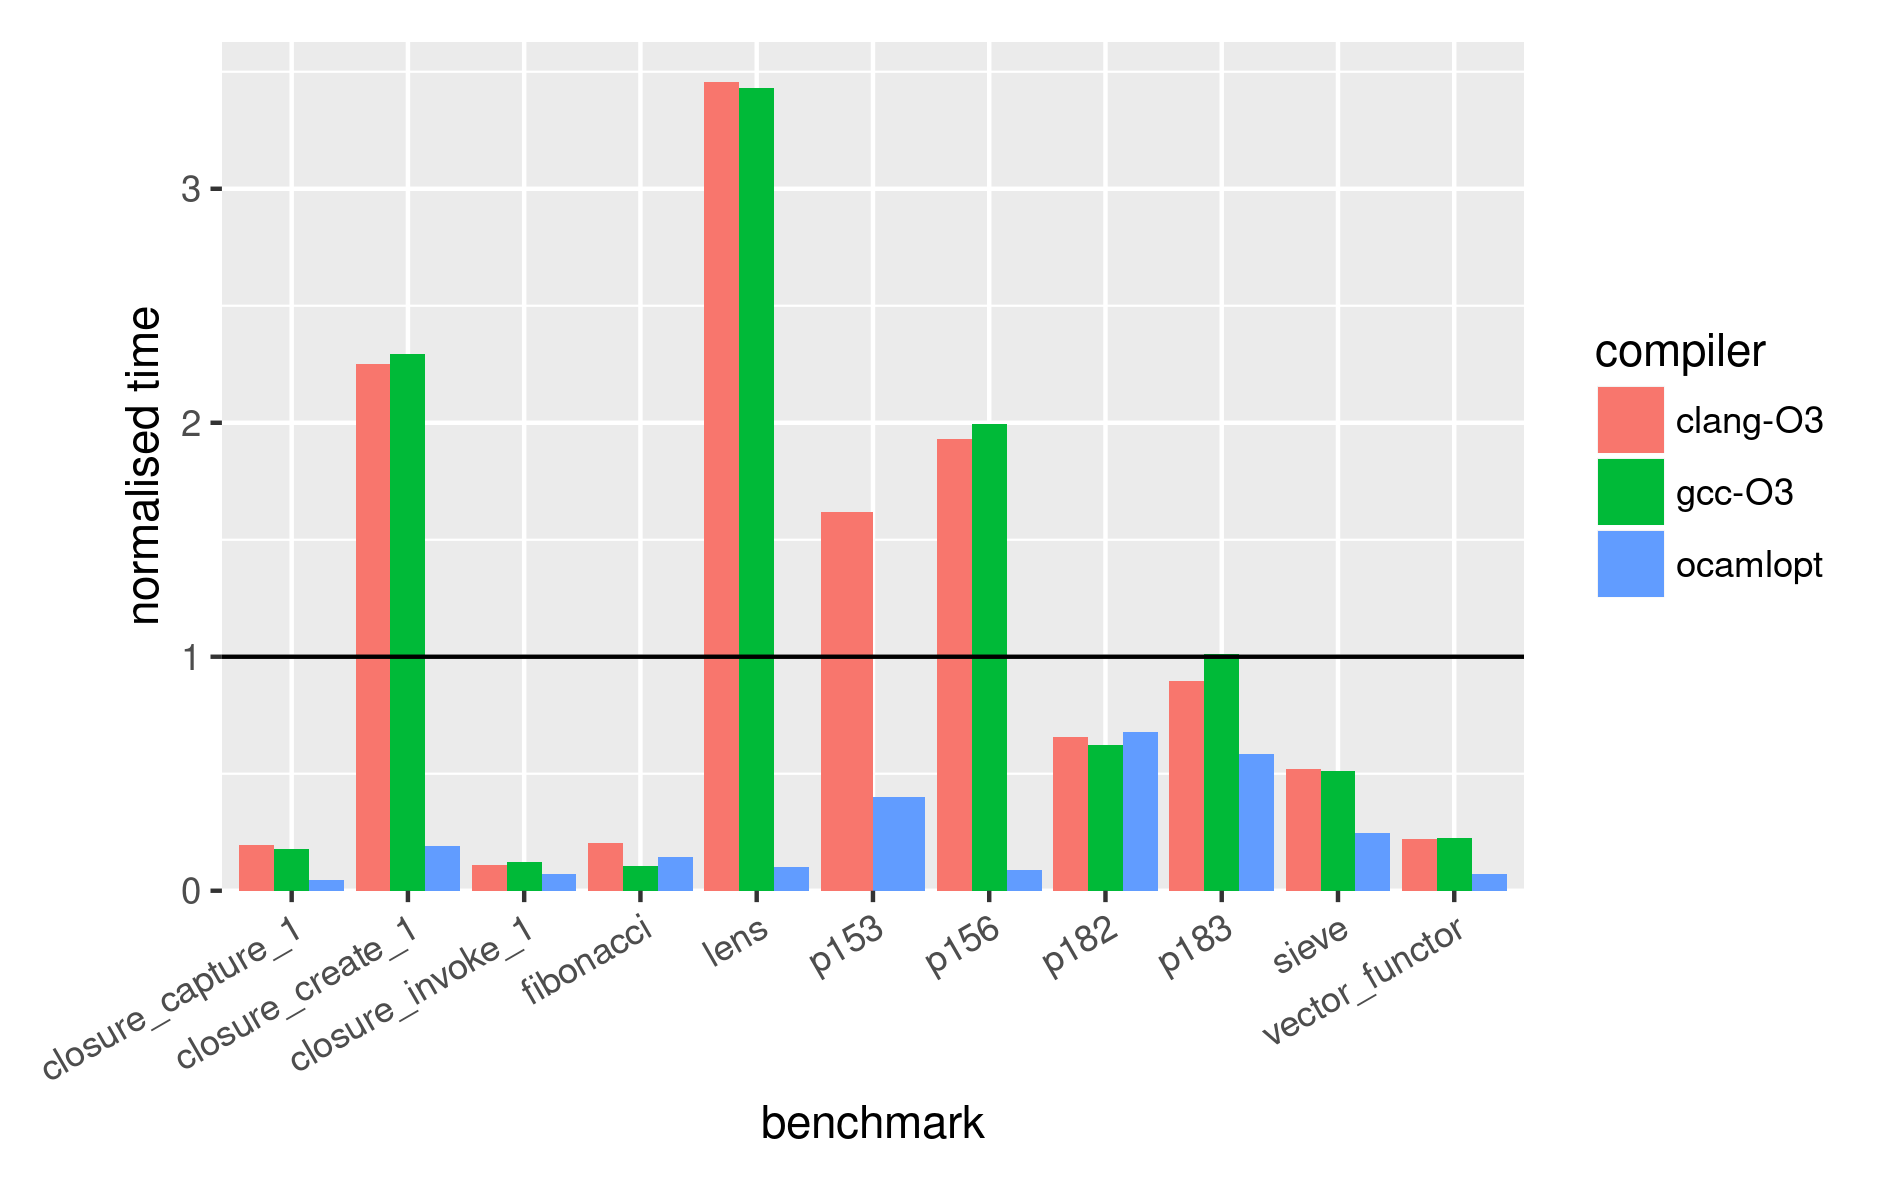
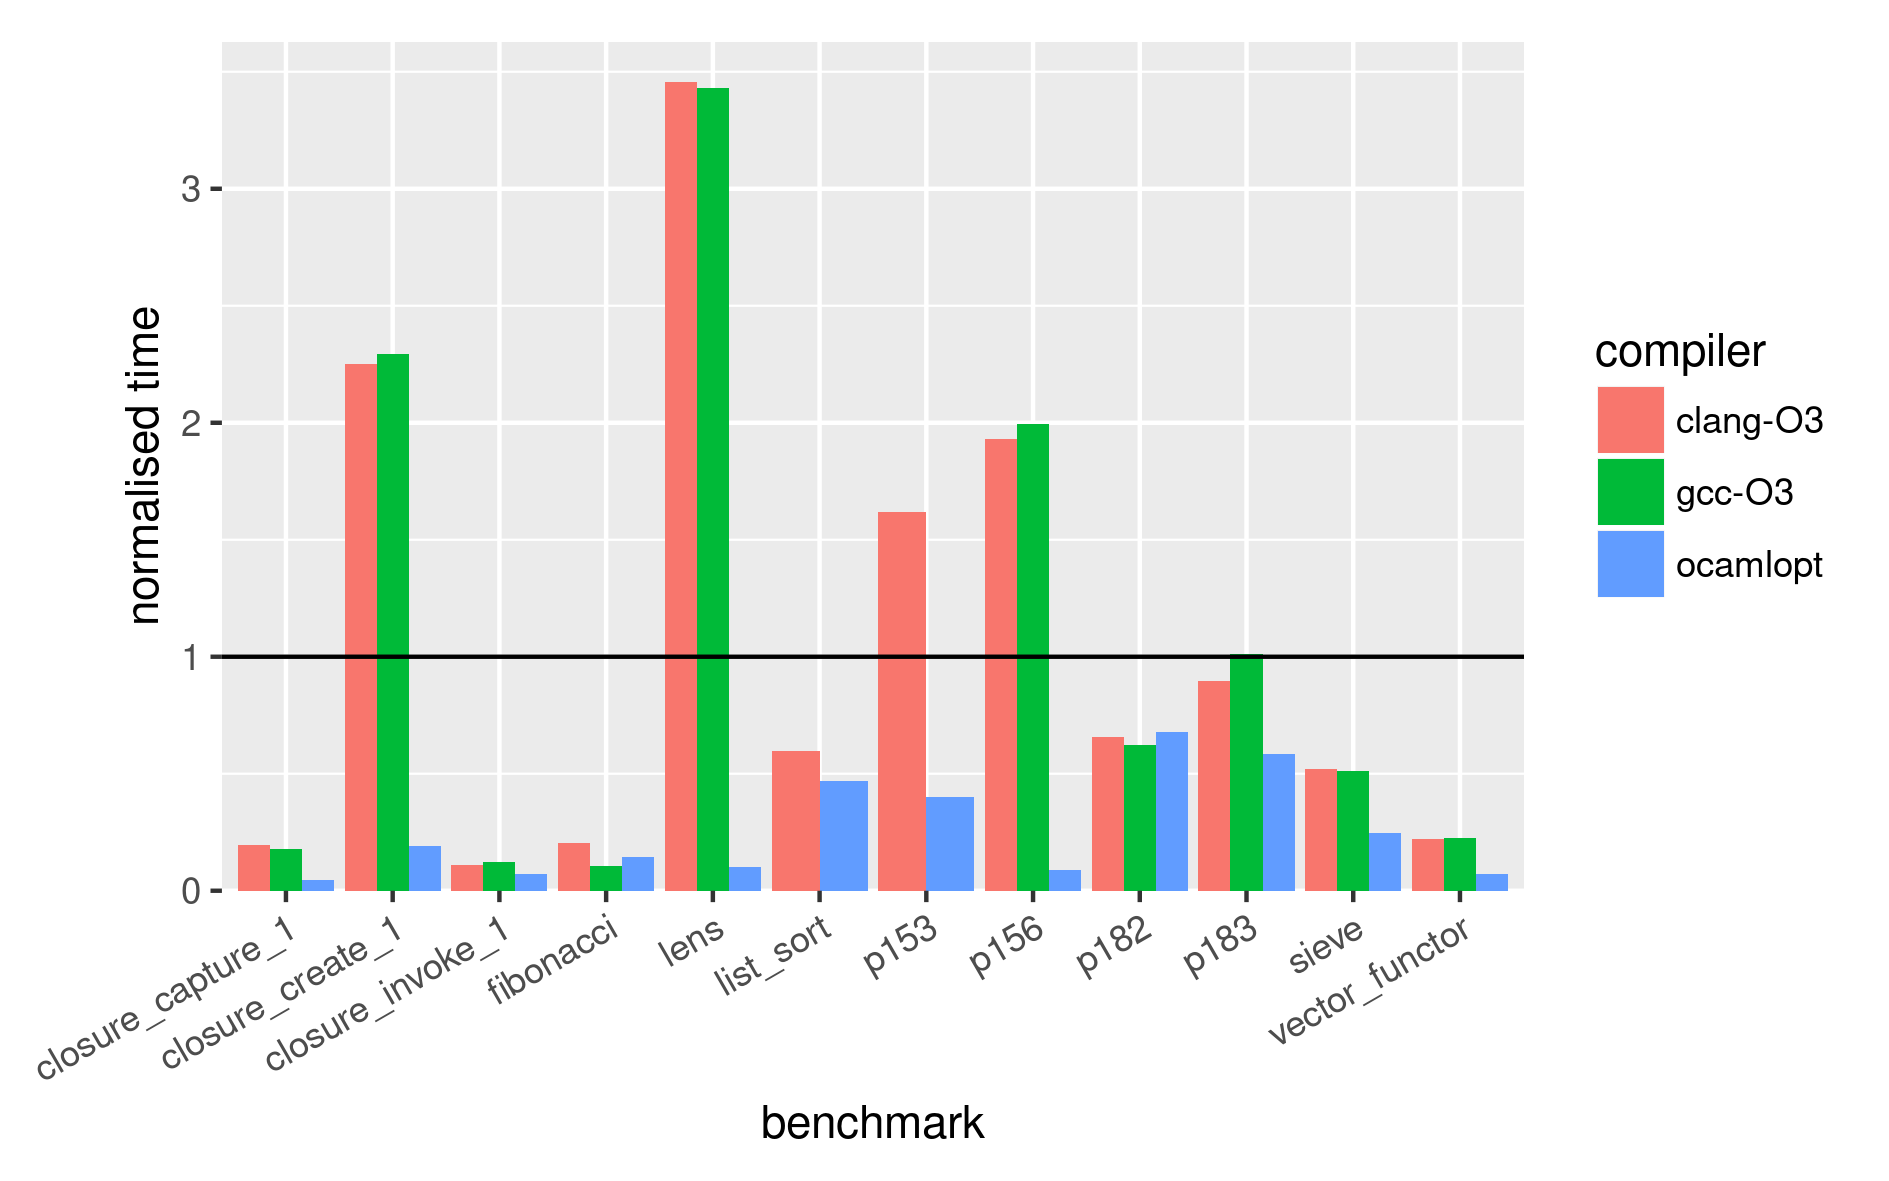
diss

Changed region(s): [[0.0, 0.061, 0.7808, 0.9145]]

diff --git a/dissertation/diss.tex b/dissertation/diss.tex
@@ -198,7 +198,12 @@ TODO
 \section{Summary of work done}
 
 \begin{enumerate}
-  \item I've modified the OCaml compiler driver (\lstinline!driver/compile.ml!) to teach it about compiling to C. See section \ref{modified-compiler-driver};
+  \item I've modified the OCaml compiler driver (\lstinline!driver/compile.ml!) to teach it about compiling to C.
+
+    A new flag \lstinline!-target-liballocs! was added to the \lstinline!ocamlc! driver. After the
+    lambda IR is compiled as usual, the presence of this flag will
+    trigger the additional phase of compiling C code, in addition
+    to running the rest of the compiler pipeline as usual.
   \item The most significant piece of code: the C compiler itself, implemented
       as a stage in the compiler (\lstinline!bytecomp/liballocs.ml!). This
       takes a \lstinline!Lambda! IR and compiles it to a semantically
@@ -343,16 +348,20 @@ Notably this pass does NOT:
 \begin{itemize}
     \item preserve type information from \lstinline!Typedtree!. This is annoying
         for us because we would like to preserve type information for
-        \lstinline!liballocs! to use. See section
-        \ref{type-information-for-liballocs};
-    \item perform closure conversion -- see section \ref{closures};
+        \lstinline!liballocs! to use;
+    \item perform closure conversion;
     \item perform uncurrying. Significantly for us this means
         partial applications and ``overapplications'' are not explicitly
-    expressed as complete applications. See section
-    \ref{closures-compiler-support}.
+    expressed as complete applications.
 \end{itemize}
 
+These issues are addressed in the implementation section.
+
 \subsection{Why \texttt{Lambda}?}\label{why-lambda}
+
+Quite a lot of research was done into the various intermediate representations in the OCaml compiler before starting my project.
+
+
 
 \subsection{Introduction to \texttt{Lambda}}\label{introduction-to-lambda}
 
@@ -918,6 +927,10 @@ To illustrate, the following is the implementation of
   ctype, [C_If (cexpr_cond, sl_t, sl_f)]
 ...\end{lstlisting}
 
+(The use of \lstinline!unify_revsts! picks the more general type of the true
+and the false statements, and casts the other so that it evaluates to this type.
+The overall return type of the if statement is the more general one.)
+
 Unfortunately the lambda IR is not documented anywhere, so the semantics
 of these instructions were divined through reverse engineering and code diving.
 
@@ -963,54 +976,75 @@ TODO
 
 \section{\texttt{module Fixup}: translation from extended-C AST to valid C AST}\label{module-fixup}
 
-Similar to \lstinline!Translate!, the implementation of \lstinline!Fixup! is
-done via a recursive tree-walk. Three mutually recursive functions each visit
+The purpose of fixup is to eliminate inline statements and inline function
+definitions. Similar to \lstinline!Translate!, the implementation is done via a
+recursive tree-walk. Three mutually recursive functions each visit
 different types of nodes:
 
 \begin{lstlisting}
 var fixup_let_defs :
   Fixup.t -> C.statement list -> C.let_definition list ->
   C.statement list
-
 var fixup_expression :
   Fixup.t -> C.statement list -> C.expression ->
   C.statement list * C.expression
-
 var fixup_rev_statements :
   Fixup.t -> C.statement list -> C.statement list ->
   C.statement list
 \end{lstlisting}
 
-Each fixup function is invoked in the form \lstinline!fixup_foo t accum foo!
+Each fixup function takes an accumulator of type \lstinline!C.statement list!,
+which is a (reversed) list of statements to be placed before the expression or
+statement currently being fixed.
 
-We define a single operation which is used during the process of extracting an
-expression from an inline block:
+As we traverse the AST, fixed statements get pushed onto the front of the accumulator.
+When we encounter a \lstinline!C_InlineRevStatements!, we first push the
+inlined statements onto the accumulator, and replace the expression with the
+expression that the inlined statements evaluate to. Then, once there are no more
+statements to fix, we reverse the accumulator and return the result.
 
-\begin{lstlisting}
-assign_last_value_of_statement
-\end{lstlisting}
+To illustrate, consider fixing the following (where square brackets indicate inlined statements):
+\lc\begin{lstlisting}
+x = [
+  if (a) { 42; } else { foo(); }
+];\end{lstlisting}\lnone{}
+turns into the following after fixup:
+\lc\begin{lstlisting}
+int __deinlined;
+if (a) { __deinlined = 42; } else { __deinlined = foo(); }
+x = __deinlined;\end{lstlisting}\lnone{}
 
-TODO
+Care must be taken to pass a new empty accumulator when entering a new scope,
+for example when fixing the bodies of if, for and while loops. Also, care must
+be taken to preserve evaluation order -- statements must be consed onto the
+head of the accumulator in the order that they must be evaluated.
 
 \section{\texttt{module Emitcode}: outputting C AST to a file}\label{emitcode}
 
-TODO
-
-\subsubsection{Identifier legalisation}
-
-Not all OCaml identifiers are legal C identifiers. TODO
-
-\subsubsection{Typed identifier output}
-
-C outputs normal variables and function pointers in different styles. TODO
-
-\section{Modified compiler driver}\label{modified-compiler-driver}
-
-Support was added to the \lstinline!ocamlc! driver binary to generate and
-output C code. A new flag \lstinline!-target-liballocs! was added. After the
-simplified lambda IR is generated as usual, the presence of this flag will
-trigger the additional phase of compiling and outputting the C code in addition
-to running the rest of the compiler pipeline.
+\lstinline!Emitcode! is responsible for stringifying the AST into valid C code,
+and outputting this to the target file. The majority of code is straightforward
+string manipulation, using recursion to traverse the tree. There are two things
+to note:
+\begin{enumerate}
+  \item Not all OCaml identifiers are legal in C -- for instance, the apostrophe character
+    is allowed by OCaml. C only allows alphanumeric characters and underscore.
+    We encode illegal identifiers as follows:
+    \begin{enumerate}
+			\item If an identifier contains at least one illegal character, suffix
+				the identifier with an underscore. Because identifiers normally always end with
+				their unique number, encoded identifiers will never collide with a legal
+				identifier;
+			\item For each illegal character, expand it to the character sequence
+				\lstinline!"_uXXXX_"! where \lstinline!XXXX! is the hexadecimal character code
+				of the illegal character.
+    \end{enumerate}
+	\item Certain variable declarations require special casing to format properly. In particular,
+    a function pointer \lstinline!x! with type \lc\lstinline!void (*)()!\lnone{} is not defined as:
+    \lc\begin{lstlisting}
+    void (*)() x;\end{lstlisting}\lnone{} as might be expected, but instead as
+    \lc\begin{lstlisting}
+    void (*x)();\end{lstlisting}\lnone{}
+\end{enumerate}
 
 \section{Build process}\label{build-process}
 
@@ -1023,13 +1057,16 @@ Also see \ref{module-list}.
 
 \subsection{Functions and complete application}\label{functions}
 
-TODO
+OCaml functions map directly to C functions, with complete function application
+corresponding to function calls. Currently all functions have arguments and
+return values of wrapped type \lstinline!ocaml_value_t!. This is to facilitate
+calling functions in another module -- at the \lstinline!Lambda! level I did
+not have type information about functions in other modules.
+
+Mutually recursive functions are simply handled in C. All that is required is
+that the functions are predeclared before they are defined.
 
 Partial application and closures are discussed later in section \ref{closures}.
-
-\subsection{Mutually recursive functions}\label{mutually-recursive-functions}
-
-TODO
 
 \subsection{Mutually recursive definitions}\label{mutually-recursive-values}
 
@@ -1050,15 +1087,14 @@ three phases:
 \begin{enumerate}
   \item \textbf{Allocation}: first the required memory for each variable are
     allocated using \lstinline!malloc!;
-  \item \textbf{Closure creation (optional)}: (TODO: move this to the closure section)  at this point the memory
+  \item \textbf{Closure creation} (if necessary): at this point the memory
     addresses of variables are known, and so can be frozen into closures as
-    needed. The process is described in great detail in section \ref{closures}
-    (TODO: actually write this section);
+    needed. The process is described in great detail in section \ref{closures};
   \item \textbf{Initialisation}: finally, the contents of the variables are
     set.
 \end{enumerate}
 
-The resulting C code will look like:
+The resulting C code for the above OCaml code will look like:
 
 \begin{lstlisting}
 // Phase 1: allocation
@@ -1071,13 +1107,6 @@ a_1213[1] = b_1213;
 b_1213[0] = 2;
 b_1213[1] = a_1213;
 \end{lstlisting}
-(TODO: fix this once list malloc typing works!)
-
-TODO
-
-\subsection{Imperative-style while loops}\label{while-loops}
-
-TODO
 
 \subsection{Range-based for loops}\label{for-loops}
 
@@ -1131,7 +1160,7 @@ switch statement only works with ``integral'' types (such as \lstinline!int! or
 \lstinline!char!). The idiomatic way to compare strings is by using the
 standard library function \lstinline!strcmp!. Hence, we need to translate this
 construct into a \lstinline!strcmp! if-ladder:
-\begin{lstlisting}
+\lc\begin{lstlisting}
 char *__stringswitch_1235 = x_1234;
 if (0 == strcmp(__stringswitch_1235, "foo")) {
   1
@@ -1139,7 +1168,7 @@ if (0 == strcmp(__stringswitch_1235, "foo")) {
   2
 } else {
   3
-}\end{lstlisting}
+}\end{lstlisting}\lnone{}
 Once again we must take care to evaluate \lstinline!x! exactly once, by
 assigning the result of evaluation to a variable.
 
@@ -1162,10 +1191,29 @@ See appendix TODO for details.
 \subsection{Printing to \texttt{stdout} and \texttt{stderr}}\label{pervasives-printing}
 
 Two sets of C runtime functions had to be implemented in order to support
-Pervasives functions such as \lstinline!print_int!. Int-to-string formatting
-and string printing are all delegated to the runtime library.
+\lstinline!Pervasives! functions such as \lstinline!print_int!:
+\begin{enumerate}
+  \item int-to-string formatting. This is done by implementing
+    \lstinline!caml_format_int! and \lstinline!caml_format_float!, using
+    \lstinline!snprintf! with a NULL argument to determine the length of string
+    that is required, allocating that string, and then invoking
+    \lstinline!snprintf! for a second time to actually format the number;
+  \item channel operations on \lstinline!stdout! and \lstinline!stderr!.
+    Channels are a generic buffered I/O stream interface and can be created
+    inside OCaml code itself. However, I was only interested in supporting the
+    special channels that correspond to the standard I/O descriptors.
 
-TODO
+    Normally \lstinline!Pervasives! will get the C library to allocate channel
+    objects for \lstinline!stdout! and \lstinline!stderr! at startup, by calling the C runtime function
+    \lstinline!caml_ml_open_descriptor_out!. However,
+    inside this function we cheat and return opaque (invalid)
+    pointers\footnote{Actually we just return the wrapped representation of the integer 1
+    for stdout, and 2 for stderr.}. Now, when user code tries to
+    print to a channel, the C runtime function simply checks whether the channel is
+    one of the two opaque pointers that we handed out to represent
+    \lstinline!stdout! or \lstinline!stderr!. If so, we use \lstinline!fprintf!
+    to print the string to the correct standard file descriptor.
+\end{enumerate}
 
 \section{Inter-module linking}
 
@@ -1189,11 +1237,14 @@ guaranteed to contain valid values. Furthermore all global side effects in
 first time.
 
 Note that \lstinline!Foo! may well depend on other modules, such as
-\lstinline!Pervasives!. Recall that these were represented as
+\lstinline!Pervasives!. These references are listed as (no-op)
 \lstinline{Popaque} references at the root of the \lstinline!lambda! tree.
-In \lstinline!foo.c! any such dependencies are represented as predeclarations
-of the module objects and constructors, and calls to constructors at the start
-of \lstinline!Foo__init!. The skeleton of such a module is shown in the listing
+We translate these in \lstinline!foo.c! into predeclarations
+of the relevant module objects and constructors, and insert calls to the
+constructor functions at the start
+of \lstinline!Foo__init!.
+
+The C skeleton of a module \lstinline!Foo! which depends on \lstinline!Pervasives! is shown in the listing
 below:
 \lc\begin{lstlisting}
 #include "liballocs_runtime.h"
@@ -1214,14 +1265,14 @@ void Foo__init() {
 }
 \end{lstlisting}\lnone
 
-\section{Type information for \texttt{liballocs}}\label{type-information-for-liballocs}
-
-In order to expose type information for \lstinline!liballocs!, I need to be able
-to TODO
-
-\subsection{\texttt{Pmakeblock}}
-
-TODO
+%\section{Type information for \texttt{liballocs}}\label{type-information-for-liballocs}
+%
+%In order to expose type information for \lstinline!liballocs!, I need to be able
+%to translate OCaml types into appropriate C types.
+%
+%\subsection{\texttt{Pmakeblock}}
+%
+%
 
 \section{Exceptions}\label{exceptions}
 
@@ -1668,12 +1719,11 @@ A selection of illustrative tests, and the C code produced, is given below.
         section \ref{builtin-exceptions};
     \item \textbf{\texttt{exn\char`_fatal}}: tests that uncaught exceptions
         trigger a message and abort the program;
-    \item \textbf{\texttt{while}}: tests imperative-style while loops --
-        section \ref{while-loops}.
+    \item \textbf{\texttt{while}}: tests imperative-style while loops;
     \item \textbf{\texttt{for}}: tests range-based for loops, including ranges
-        that are negative-lengthed -- section \ref{for-loops};
+        that have negative-length -- section \ref{for-loops};
     \item \textbf{\texttt{letrec}}: tests basic mutually recursive functions --
-        section \ref{mutually-recursive-functions};
+        section \ref{functions};
     \item \textbf{\texttt{letrec\char`_value}}: tests the ``mutually recursive
         values'' OCaml feature -- section \ref{mutually-recursive-values};
     \item \textbf{\texttt{match}}: tests that pattern matching compiles
@@ -1732,6 +1782,7 @@ benchmark                     & mean  & sd    & mean  & sd    & mean  & sd    & 
 \lstinline!closure_invoke_1!  & \cellcolor[hsb]{0.0,0.432,1}4.084 & 0.582 & \cellcolor[hsb]{0.3,0.680,1}0.700 & 0.001 & \cellcolor[hsb]{0.3,0.890,1}0.240 & 0.000 & \cellcolor[hsb]{0.3,0.890,1}0.240 & 0.000 \\
 \lstinline!fibonacci!         & \cellcolor[hsb]{0.0,0.326,1}5.226 & 0.011 & \cellcolor[hsb]{0.3,0.586,1}1.310 & 0.000 & \cellcolor[hsb]{0.3,0.794,1}0.651 & 0.006 & \cellcolor[hsb]{0.3,0.794,1}0.650 & 0.002 \\
 \lstinline!lens!              & \cellcolor[hsb]{0.0,1.000,1}1.827 & 0.009 & \cellcolor[hsb]{0.0,1.000,1}1.326 & 0.007 & \cellcolor[hsb]{0.0,1.000,1}1.356 & 0.030 & \cellcolor[hsb]{0.0,1.000,1}1.360 & 0.031 \\
+\lstinline!list_sort!         &                                NA &    NA & \cellcolor[hsb]{0.3,0.292,1}0.794 & 0.053 & \cellcolor[hsb]{0.3,0.400,1}0.673 & 0.009 & \cellcolor[hsb]{0.0,0.402,1}0.671 & 0.005 \\
 \lstinline!p153!              &                                NA &    NA & \cellcolor[hsb]{0.0,0.357,1}0.687 & 0.010 & \cellcolor[hsb]{0.0,0.314,1}0.652 & 0.012 & \cellcolor[hsb]{0.0,0.310,1}0.649 & 0.012 \\
 \lstinline!p156!              & \cellcolor[hsb]{0.0,1.000,1}3.247 & 0.005 & \cellcolor[hsb]{0.0,0.511,1}2.072 & 0.012 & \cellcolor[hsb]{0.0,0.464,1}1.976 & 0.009 & \cellcolor[hsb]{0.0,0.465,1}1.977 & 0.011 \\
 \lstinline!p182!              & \cellcolor[hsb]{0.0,0.368,1}1.928 & 0.005 & \cellcolor[hsb]{0.3,0.314,1}0.762 & 0.004 & \cellcolor[hsb]{0.3,0.334,1}0.740 & 0.003 & \cellcolor[hsb]{0.3,0.342,1}0.731 & 0.002 \\
@@ -1755,6 +1806,7 @@ benchmark                     & mean  & sd    & mean  & sd    & mean  & sd    & 
 \lstinline!closure_invoke_1!  & \cellcolor[hsb]{0.3,0.175,1}1.809 & 0.041 & \cellcolor[hsb]{0.3,0.890,1}0.240 & 0.000 & \cellcolor[hsb]{0.3,0.854,1}0.321 & 0.004 & \cellcolor[hsb]{0.3,0.877,1}0.270 & 0.000 \\
 \lstinline!fibonacci!         & \cellcolor[hsb]{0.0,0.178,1}4.291 & 0.019 & \cellcolor[hsb]{0.3,0.788,1}0.671 & 0.004 & \cellcolor[hsb]{0.3,0.775,1}0.711 & 0.004 & \cellcolor[hsb]{0.3,0.896,1}0.328 & 0.004 \\
 \lstinline!lens!              & \cellcolor[hsb]{0.0,1.000,1}1.639 & 0.010 & \cellcolor[hsb]{0.0,1.000,1}1.365 & 0.052 & \cellcolor[hsb]{0.0,1.000,1}1.350 & 0.015 & \cellcolor[hsb]{0.0,1.000,1}1.350 & 0.052 \\
+\lstinline!list_sort!         &                                NA &    NA &                                NA &    NA &                                NA &    NA &                                NA &    NA \\
 \lstinline!p153!              &                                NA &    NA &                                NA &    NA &                                NA &    NA &                                NA &    NA \\
 \lstinline!p156!              & \cellcolor[hsb]{0.0,0.913,1}2.895 & 0.009 & \cellcolor[hsb]{0.0,0.536,1}2.124 & 0.008 & \cellcolor[hsb]{0.0,0.503,1}2.055 & 0.008 & \cellcolor[hsb]{0.0,0.497,1}2.043 & 0.006 \\
 \lstinline!p182!              & \cellcolor[hsb]{0.0,0.198,1}1.551 & 0.005 & \cellcolor[hsb]{0.3,0.271,1}0.810 & 0.002 & \cellcolor[hsb]{0.3,0.305,1}0.772 & 0.007 & \cellcolor[hsb]{0.3,0.378,1}0.691 & 0.006 \\
@@ -1778,6 +1830,7 @@ benchmark                     & mean  & sd    & mean  & sd    & mean  & sd    & 
 \lstinline!closure_invoke_1!  & \cellcolor[hsb]{0.3,0.000,1}2.191 & 0.005 & \cellcolor[hsb]{0.0,0.000,1}2.194 & 0.009 & \cellcolor[hsb]{0.3,0.927,1}0.160 & 0.000 & \cellcolor[hsb]{0.3,0.927,1}0.161 & 0.006 \\
 \lstinline!fibonacci!         & \cellcolor[hsb]{0.3,0.000,1}3.165 & 0.010 & \cellcolor[hsb]{0.3,0.000,1}3.166 & 0.013 & \cellcolor[hsb]{0.3,0.855,1}0.460 & 0.002 & \cellcolor[hsb]{0.3,0.854,1}0.461 & 0.006 \\
 \lstinline!lens!              & \cellcolor[hsb]{0.3,0.000,1}0.393 & 0.010 & \cellcolor[hsb]{0.0,0.012,1}0.402 & 0.007 & \cellcolor[hsb]{0.3,0.898,1}0.040 & 0.000 & \cellcolor[hsb]{0.3,0.898,1}0.040 & 0.000 \\
+\lstinline!list_sort!         & \cellcolor[hsb]{0.3,0.000,1}1.122 & 0.016 & \cellcolor[hsb]{0.0,0.151,1}1.460 & 0.036 & \cellcolor[hsb]{0.3,0.530,1}0.527 & 0.022 & \cellcolor[hsb]{0.3,0.246,1}0.846 & 0.036 \\
 \lstinline!p153!              & \cellcolor[hsb]{0.3,0.000,1}0.401 & 0.003 & \cellcolor[hsb]{0.0,0.001,1}0.402 & 0.004 & \cellcolor[hsb]{0.3,0.601,1}0.160 & 0.001 & \cellcolor[hsb]{0.3,0.601,1}0.160 & 0.000 \\
 \lstinline!p156!              & \cellcolor[hsb]{0.3,0.000,1}1.025 & 0.010 & \cellcolor[hsb]{0.0,0.007,1}1.039 & 0.011 & \cellcolor[hsb]{0.3,0.912,1}0.090 & 0.001 & \cellcolor[hsb]{0.3,0.902,1}0.100 & 0.000 \\
 \lstinline!p182!              & \cellcolor[hsb]{0.3,0.000,1}1.111 & 0.004 & \cellcolor[hsb]{0.0,0.000,1}1.113 & 0.009 & \cellcolor[hsb]{0.3,0.323,1}0.752 & 0.004 & \cellcolor[hsb]{0.3,0.323,1}0.752 & 0.004 \\
